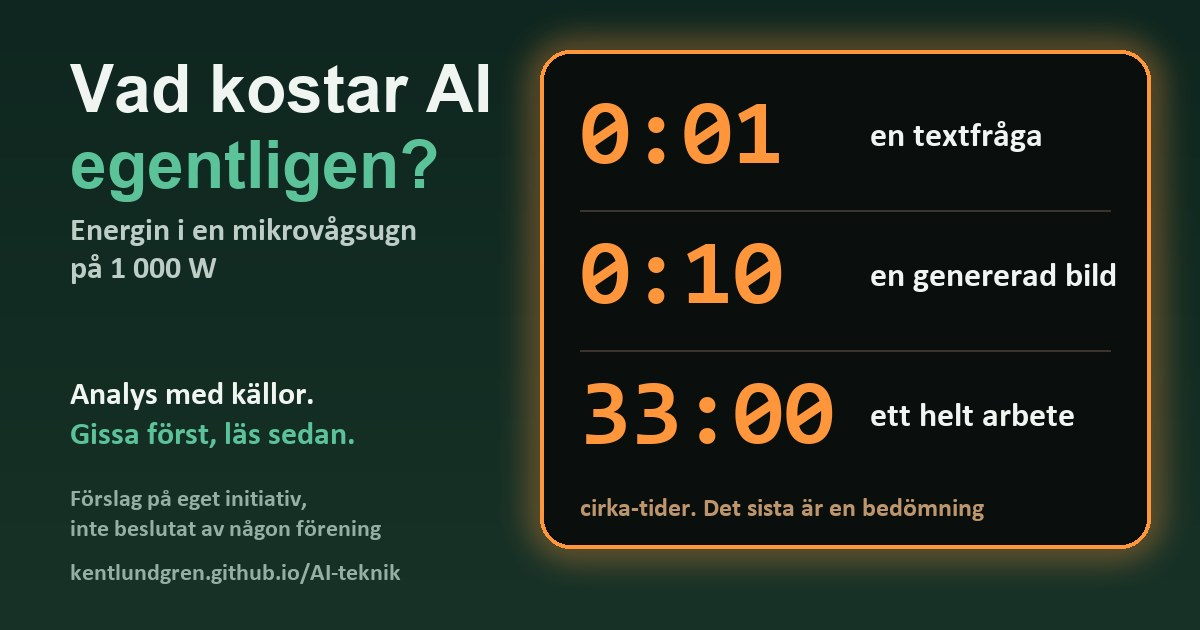
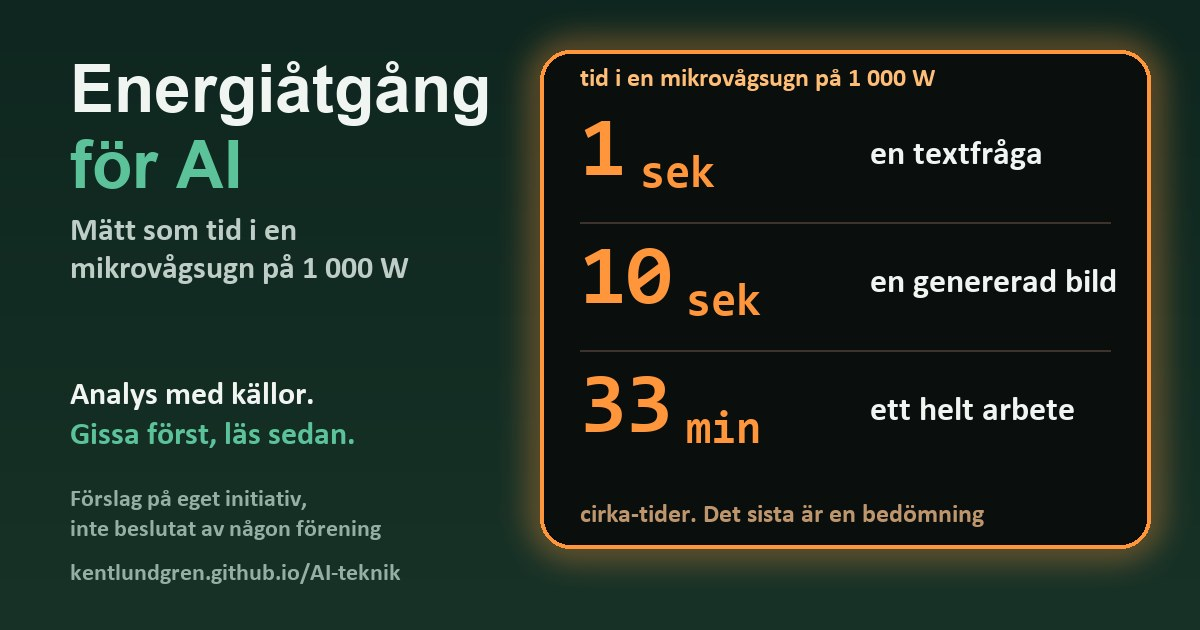
Increment version to 1.8 and update content for improved clarity
Updated all relevant HTML files, JavaScript, and README to version 1.8, reflecting changes in the introductory title to "Energiåtgång för AI" and adjusting time representations in the metadata. Enhanced the visual representation of time in the image generation script and ensured consistency across all pages. These updates aim to improve user understanding of AI's energy consumption and enhance the overall presentation of the analysis.

diff --git a/AI_anvandning/NF/index.html b/AI_anvandning/NF/index.html
@@ -1,7 +1,8 @@
 <!doctype html>
 <!--
   AI i en miljöorganisation: hubb (startsida).
-  Version 1.7 · 2026-11-12 · Kent Lundgren (versionen står i sida.js: VERSION och VERSIONSDATUM).
+  Version 1.8 · 2026-11-12 · Kent Lundgren (versionen står i sida.js: VERSION och VERSIONSDATUM).
+  UPPDATERING 2026-11-12: delningstitel Energiåtgång för AI. Version 1.8.
   UPPDATERING 2026-11-12: intro (gissa, mikron, kvitto) och delningstaggar. Version 1.7.
   UPPDATERING 2026-11-12: första versionen. Version 1.0.
 -->
@@ -14,15 +15,15 @@
   <meta property="og:type" content="website">
   <meta property="og:locale" content="sv_SE">
   <meta property="og:site_name" content="AI i en miljöorganisation">
-  <meta property="og:title" content="Vad kostar AI egentligen? En analys med källor">
+  <meta property="og:title" content="Energiåtgång för AI: en analys med källor">
   <meta property="og:description" content="En analys av generativ AI:s resursanvändning (energi, vatten och övriga miljöfaktorer) för både entusiaster och skeptiker. Förslag på eget initiativ, med källor.">
   <meta property="og:url" content="https://kentlundgren.github.io/AI-teknik/AI_anvandning/NF/">
   <meta property="og:image" content="https://kentlundgren.github.io/AI-teknik/AI_anvandning/NF/og-bild.jpg">
   <meta property="og:image:width" content="1200">
   <meta property="og:image:height" content="630">
-  <meta property="og:image:alt" content="Mikrovågsdisplay som visar 0:01 för en textfråga, 0:10 för en genererad bild och 33:00 för ett helt arbete">
+  <meta property="og:image:alt" content="Mikrovågsdisplay som visar tiden 1 sek för en textfråga, 10 sek för en genererad bild och 33 min för ett helt arbete">
   <meta name="twitter:card" content="summary_large_image">
-  <meta name="twitter:title" content="Vad kostar AI egentligen? En analys med källor">
+  <meta name="twitter:title" content="Energiåtgång för AI: en analys med källor">
   <meta name="twitter:description" content="En analys av generativ AI:s resursanvändning (energi, vatten och övriga miljöfaktorer) för både entusiaster och skeptiker. Förslag på eget initiativ, med källor.">
   <meta name="twitter:image" content="https://kentlundgren.github.io/AI-teknik/AI_anvandning/NF/og-bild.jpg">
   <link rel="stylesheet" href="sida.css">

diff --git a/AI_anvandning/NF/anvandningssatt.html b/AI_anvandning/NF/anvandningssatt.html
@@ -1,7 +1,7 @@
 <!doctype html>
 <!--
   AI i en miljöorganisation: vad är en fråga, och vad är ett arbete? (steg 2).
-  Version 1.7 · 2026-11-12 · Kent Lundgren (versionen står i sida.js: VERSION och VERSIONSDATUM).
+  Version 1.8 · 2026-11-12 · Kent Lundgren (versionen står i sida.js: VERSION och VERSIONSDATUM).
   UPPDATERING 2026-11-12: källor i Harvardformat och en källförteckning på sidan. Version 1.6.
   UPPDATERING 2026-11-12: bedömningsrad i Tabell 6 och länk till Min förbrukning. Version 1.5.
   UPPDATERING 2026-11-12: Tabell 6 förenklad till två alternativ med det tredje som underrad, nya avsnitt om kontextfönstret och om skillnader mellan tjänster, ny mätning. Version 1.4.
@@ -24,7 +24,7 @@
   <meta property="og:image" content="https://kentlundgren.github.io/AI-teknik/AI_anvandning/NF/og-bild.jpg">
   <meta property="og:image:width" content="1200">
   <meta property="og:image:height" content="630">
-  <meta property="og:image:alt" content="Mikrovågsdisplay som visar 0:01 för en textfråga, 0:10 för en genererad bild och 33:00 för ett helt arbete">
+  <meta property="og:image:alt" content="Mikrovågsdisplay som visar tiden 1 sek för en textfråga, 10 sek för en genererad bild och 33 min för ett helt arbete">
   <meta name="twitter:card" content="summary_large_image">
   <meta name="twitter:title" content="Fråga och arbete: AI i en miljöorganisation">
   <meta name="twitter:description" content="Vad en normal fråga och ett normalt svar är i tokens (X), hur många tokens ett arbete använder (Y) och förhållandet mellan dem (Z), med en uppmätt session och energi som ett spann.">

diff --git a/AI_anvandning/NF/analys.html b/AI_anvandning/NF/analys.html
@@ -1,7 +1,7 @@
 <!doctype html>
 <!--
   AI i en miljöorganisation: en analys (huvudsidan, stabilt namn).
-  Version 1.7 · 2026-11-12 · Kent Lundgren (versionen står i sida.js: VERSION och VERSIONSDATUM).
+  Version 1.8 · 2026-11-12 · Kent Lundgren (versionen står i sida.js: VERSION och VERSIONSDATUM).
   UPPDATERING 2026-11-12: källor i Harvardformat och en källförteckning på sidan. Version 1.6.
   UPPDATERING 2026-11-12: bedömningsrad (troligast) i Tabell 1, ny punkt och länk till sidan Min förbrukning. Version 1.5.
   UPPDATERING 2026-11-12: Tabell 1 förenklad till två alternativ för arbetets energi (det tredje är en underrad), ruta med bedömning, ny mätning. Version 1.4.
@@ -26,7 +26,7 @@
   <meta property="og:image" content="https://kentlundgren.github.io/AI-teknik/AI_anvandning/NF/og-bild.jpg">
   <meta property="og:image:width" content="1200">
   <meta property="og:image:height" content="630">
-  <meta property="og:image:alt" content="Mikrovågsdisplay som visar 0:01 för en textfråga, 0:10 för en genererad bild och 33:00 för ett helt arbete">
+  <meta property="og:image:alt" content="Mikrovågsdisplay som visar tiden 1 sek för en textfråga, 10 sek för en genererad bild och 33 min för ett helt arbete">
   <meta name="twitter:card" content="summary_large_image">
   <meta name="twitter:title" content="Analysen i korthet: AI i en miljöorganisation">
   <meta name="twitter:description" content="Analys av generativ AI:s resursanvändning i korthet: energi, vatten, övriga miljöfaktorer och vad ett arbete är. Med källor och osäkerhet redovisad.">

diff --git a/AI_anvandning/NF/forbrukning.html b/AI_anvandning/NF/forbrukning.html
@@ -1,7 +1,7 @@
 <!doctype html>
 <!--
   AI i en miljöorganisation: min förbrukning (kontext, tokens, energi och pengar).
-  Version 1.7 · 2026-11-12 · Kent Lundgren (versionen står i sida.js: VERSION och VERSIONSDATUM).
+  Version 1.8 · 2026-11-12 · Kent Lundgren (versionen står i sida.js: VERSION och VERSIONSDATUM).
   UPPDATERING 2026-11-12: källor i Harvardformat och en källförteckning på sidan. Version 1.6.
   UPPDATERING 2026-11-12: ny sida. Version 1.5.
   Alla siffror kommer ur data/siffror.json via platshållare (data-post, data-formel).
@@ -21,7 +21,7 @@
   <meta property="og:image" content="https://kentlundgren.github.io/AI-teknik/AI_anvandning/NF/og-bild.jpg">
   <meta property="og:image:width" content="1200">
   <meta property="og:image:height" content="630">
-  <meta property="og:image:alt" content="Mikrovågsdisplay som visar 0:01 för en textfråga, 0:10 för en genererad bild och 33:00 för ett helt arbete">
+  <meta property="og:image:alt" content="Mikrovågsdisplay som visar tiden 1 sek för en textfråga, 10 sek för en genererad bild och 33 min för ett helt arbete">
   <meta name="twitter:card" content="summary_large_image">
   <meta name="twitter:title" content="Min förbrukning: AI i en miljöorganisation">
   <meta name="twitter:description" content="Vad ett enskilt arbete med generativ AI förbrukar: kontextfönstret, tokens in och ut, energi och pengar, både i ett abonnemang och om man betalar API-kostnaden.">

diff --git a/AI_anvandning/NF/miljofaktorer.html b/AI_anvandning/NF/miljofaktorer.html
@@ -1,7 +1,7 @@
 <!doctype html>
 <!--
   AI i en miljöorganisation: övriga miljöfaktorer och gradering (steg 2).
-  Version 1.7 · 2026-11-12 · Kent Lundgren (versionen står i sida.js: VERSION och VERSIONSDATUM).
+  Version 1.8 · 2026-11-12 · Kent Lundgren (versionen står i sida.js: VERSION och VERSIONSDATUM).
   UPPDATERING 2026-11-12: källor i Harvardformat och en källförteckning på sidan. Version 1.6.
   UPPDATERING 2026-11-12: första versionen. Version 1.0.
 -->
@@ -20,7 +20,7 @@
   <meta property="og:image" content="https://kentlundgren.github.io/AI-teknik/AI_anvandning/NF/og-bild.jpg">
   <meta property="og:image:width" content="1200">
   <meta property="og:image:height" content="630">
-  <meta property="og:image:alt" content="Mikrovågsdisplay som visar 0:01 för en textfråga, 0:10 för en genererad bild och 33:00 för ett helt arbete">
+  <meta property="og:image:alt" content="Mikrovågsdisplay som visar tiden 1 sek för en textfråga, 10 sek för en genererad bild och 33 min för ett helt arbete">
   <meta name="twitter:card" content="summary_large_image">
   <meta name="twitter:title" content="Övriga miljöfaktorer: AI i en miljöorganisation">
   <meta name="twitter:description" content="Miljöpåverkan från generativ AI utöver energi och vatten: hårdvara, mineral, elektroniskt avfall, elnät och indirekta effekter, med en graderingsram och en redovisning av vad som är dåligt mätt.">

diff --git a/AI_anvandning/NF/kallor.html b/AI_anvandning/NF/kallor.html
@@ -1,7 +1,7 @@
 <!doctype html>
 <!--
   AI i en miljöorganisation: källor och logg.
-  Version 1.7 · 2026-11-12 · Kent Lundgren (versionen står i sida.js: VERSION och VERSIONSDATUM).
+  Version 1.8 · 2026-11-12 · Kent Lundgren (versionen står i sida.js: VERSION och VERSIONSDATUM).
   UPPDATERING 2026-11-12: första versionen. Version 1.0.
   Allt på sidan kommer ur data/siffror.json: källor, verifieringslogg, alla siffror, förbättringsregister, antagandelogg och versionslogg.
 -->
@@ -20,7 +20,7 @@
   <meta property="og:image" content="https://kentlundgren.github.io/AI-teknik/AI_anvandning/NF/og-bild.jpg">
   <meta property="og:image:width" content="1200">
   <meta property="og:image:height" content="630">
-  <meta property="og:image:alt" content="Mikrovågsdisplay som visar 0:01 för en textfråga, 0:10 för en genererad bild och 33:00 för ett helt arbete">
+  <meta property="og:image:alt" content="Mikrovågsdisplay som visar tiden 1 sek för en textfråga, 10 sek för en genererad bild och 33 min för ett helt arbete">
   <meta name="twitter:card" content="summary_large_image">
   <meta name="twitter:title" content="Källor och logg: AI i en miljöorganisation">
   <meta name="twitter:description" content="Källförteckning, verifieringslogg, alla siffror med källa och hämtdatum, förbättringsregister, antagandelogg och versionslogg för analysen om AI i en miljöorganisation.">

diff --git a/AI_anvandning/NF/vatten.html b/AI_anvandning/NF/vatten.html
@@ -1,7 +1,7 @@
 <!doctype html>
 <!--
   AI i en miljöorganisation: vatten i detalj (steg 2).
-  Version 1.7 · 2026-11-12 · Kent Lundgren (versionen står i sida.js: VERSION och VERSIONSDATUM).
+  Version 1.8 · 2026-11-12 · Kent Lundgren (versionen står i sida.js: VERSION och VERSIONSDATUM).
   UPPDATERING 2026-11-12: källor i Harvardformat och en källförteckning på sidan. Version 1.6.
   UPPDATERING 2026-11-12: första versionen. Version 1.0.
 -->
@@ -20,7 +20,7 @@
   <meta property="og:image" content="https://kentlundgren.github.io/AI-teknik/AI_anvandning/NF/og-bild.jpg">
   <meta property="og:image:width" content="1200">
   <meta property="og:image:height" content="630">
-  <meta property="og:image:alt" content="Mikrovågsdisplay som visar 0:01 för en textfråga, 0:10 för en genererad bild och 33:00 för ett helt arbete">
+  <meta property="og:image:alt" content="Mikrovågsdisplay som visar tiden 1 sek för en textfråga, 10 sek för en genererad bild och 33 min för ett helt arbete">
   <meta name="twitter:card" content="summary_large_image">
   <meta name="twitter:title" content="Vatten i detalj: AI i en miljöorganisation">
   <meta name="twitter:description" content="Går det åt vatten när man använder AI? Skillnaden mellan uttag, förbrukning och temperaturpåverkan, kylmetoder, en jämförelse med kärnkraft och vatten per fråga och per arbetspass.">

diff --git a/AI_anvandning/NF/sida.js b/AI_anvandning/NF/sida.js
@@ -4,6 +4,7 @@
  * (data-post, data-formel, data-kalla, data-lista), visar markering av hur väl en siffra är belagd,
  * förklaringar vid hovring/fokus/tryck, tekniknivån i hörnet och versionsraden.
  *
+ * UPPDATERING 2026-11-12: ändrad rubrik i introt (Energiåtgång för AI) och på delningsbilden. Version 1.8.
  * UPPDATERING 2026-11-12: händelsen "siffror-laddade" för introt på startsidan. Version 1.7.
  * UPPDATERING 2026-11-12: källor i Harvardformat (Tillgänglig på, hämtdatum, DOI), källförteckning på varje sida (sidkallor), länkar i verifieringsloggen. Version 1.6.
  * UPPDATERING 2026-11-12: visning i USD (data-visa="usd"), källor utan webbadress, termerna anrop och utdata, nya testvärden (A3). Version 1.5.
@@ -16,7 +17,7 @@
  * Testläge: lägg ?test=1 efter adressen för att köra validering och testfall (SPEC avsnitt 3, 4 och 8).
  * Obs: fetch fungerar inte på file://. Testa via en lokal server (python -m http.server).
  */
-const VERSION = "1.7";
+const VERSION = "1.8";
 const VERSIONSDATUM = "2026-11-12";
 const AVSANDARE = "Kent Lundgren";
 const GITHUB_MAPP = "https://github.com/kentlundgren/AI-teknik/tree/main/AI_anvandning/NF";

diff --git a/AI_anvandning/NF/intro.js b/AI_anvandning/NF/intro.js
@@ -4,6 +4,7 @@
  * visaEnergi, visaVatten, sig, fp). Introt väntar på händelsen "siffror-laddade".
  * Visas första gången. ?intro=1 visar det alltid, ?intro=0 aldrig. Knappen "Visa introt igen" öppnar det.
  *
+ * UPPDATERING 2026-11-12: rubriken Energiåtgång för AI. Version 1.8.
  * UPPDATERING 2026-11-12: första versionen. Version 1.7.
  */
 (function () {
@@ -58,7 +59,7 @@
 
     /* ---------- steg 0: start ---------- */
     var s0 = el("section", "intro-steg");
-    var h0 = el("h2", null, "Vad kostar AI egentligen?");
+    var h0 = el("h2", null, "Energiåtgång för AI");
     h0.id = "intro-titel";
     s0.appendChild(h0);
     s0.appendChild(el("p", null, "Två frågor kommer ofta upp: går det åt mycket el och vatten, och vad gör vi med bilder? Börja med att gissa. Det tar en halv minut."));

diff --git a/AI_anvandning/NF/gen_og_bild.py b/AI_anvandning/NF/gen_og_bild.py
@@ -41,9 +41,15 @@ def mmss(s, avrunda_min=False):
     return '%d:%02d' % (s // 60, s % 60)
 
 
-tider = [('0:01' if fraga < 1.5 else mmss(fraga), 'en textfråga'),
-         (mmss(bild), 'en genererad bild'),
-         (mmss(arbete, True), 'ett helt arbete')]
+def tid_enhet(s):
+    if s < 90:
+        return str(max(1, round(s))), 'sek'
+    return str(round(s / 60)), 'min'
+
+
+tider = [tid_enhet(fraga) + ('en textfråga',),
+         tid_enhet(bild) + ('en genererad bild',),
+         tid_enhet(arbete) + ('ett helt arbete',)]
 print('tider', tider, 'sek', round(fraga, 2), round(bild, 2), round(arbete))
 
 W, H = 1200, 630
@@ -68,16 +74,16 @@ def font(fil, storlek):
 
 f_titel = font('arialbd.ttf', 66)
 f_sub = font('calibrib.ttf', 32)
-f_tid = font('consolab.ttf', 92)
+f_tid = font('consolab.ttf', 84)
 f_etikett = font('calibrib.ttf', 34)
 f_liten = font('calibrib.ttf', 26)
 f_url = font('calibrib.ttf', 24)
 
 # titel
-d.text((70, 52), 'Vad kostar AI', font=f_titel, fill=VIT)
-d.text((70, 128), 'egentligen?', font=f_titel, fill=GRON)
-d.text((70, 216), 'Energin i en mikrovågsugn', font=f_sub, fill=(190, 205, 198))
-d.text((70, 254), 'på 1 000 W', font=f_sub, fill=(190, 205, 198))
+d.text((70, 52), 'Energiåtgång', font=f_titel, fill=VIT)
+d.text((70, 128), 'för AI', font=f_titel, fill=GRON)
+d.text((70, 216), 'Mätt som tid i en', font=f_sub, fill=(190, 205, 198))
+d.text((70, 254), 'mikrovågsugn på 1 000 W', font=f_sub, fill=(190, 205, 198))
 
 # mikrovågsdisplay (höger)
 bx0, by0, bx1, by1 = 540, 50, 1150, 548
@@ -88,15 +94,18 @@ img.paste(Image.new('RGB', (W, H), ORANGE), (0, 0), mask)
 d = ImageDraw.Draw(img)
 d.rounded_rectangle((bx0, by0, bx1, by1), radius=30, fill=SVART, outline=ORANGE, width=4)
 
-rad_h = 140
-for i, (tid, etikett) in enumerate(tider):
-    y = by0 + 26 + i * rad_h
-    d.text((bx0 + 40, y + 18), tid, font=f_tid, fill=ORANGE)
-    d.text((bx0 + 330, y + 44), etikett, font=f_etikett, fill=VIT)
+rad_h = 128
+f_enhet = font('consolab.ttf', 46)
+for i, (tal, enhet, etikett) in enumerate(tider):
+    y = by0 + 50 + i * rad_h
+    d.text((bx0 + 40, y + 12), tal, font=f_tid, fill=ORANGE)
+    d.text((bx0 + 40 + int(d.textlength(tal, font=f_tid)) + 14, y + 52), enhet, font=f_enhet, fill=ORANGE)
+    d.text((bx0 + 330, y + 38), etikett, font=f_etikett, fill=VIT)
     if i < 2:
         d.line([(bx0 + 40, y + rad_h - 6), (bx1 - 40, y + rad_h - 6)], fill=(60, 52, 44), width=2)
 
-d.text((bx0 + 40, by1 - 52), 'cirka-tider. Det sista är en bedömning', font=f_liten, fill=(190, 150, 110))
+d.text((bx0 + 40, by0 + 16), 'tid i en mikrovågsugn på 1 000 W', font=f_liten, fill=(255, 190, 120))
+d.text((bx0 + 40, by1 - 46), 'cirka-tider. Det sista är en bedömning', font=f_liten, fill=(190, 150, 110))
 
 # nederkant
 d.text((70, 380), 'Analys med källor.', font=f_sub, fill=VIT)

diff --git a/AI_anvandning/NF/PRD_ai_riktlinjer_261112.md b/AI_anvandning/NF/PRD_ai_riktlinjer_261112.md
@@ -1,7 +1,8 @@
 # PRD: förhållningssätt och riktlinjer för generativ AI i en ideell miljöorganisation
 
-**Version:** 0.17 (utkast) · **Datum:** 2026-11-12 · **Avsändare:** Kent Lundgren
+**Version:** 0.18 (utkast) · **Datum:** 2026-11-12 · **Avsändare:** Kent Lundgren
 **Status:** Kents egen undersökning, på eget initiativ och utan samordning. Inte beslutat av Lunds Naturskyddsförening eller av Naturskyddsföreningen.
+**Ändringar i 0.18:** sidan är version 1.8: rubriken i introt och på delningsbilden är Energiåtgång för AI, och tiderna på bilden står som 1 sek, 10 sek och 33 min.
 **Ändringar i 0.17:** sidan är version 1.7: intro på startsidan (gissa, mikron, kvitto) och delningsbild med delningstaggar.
 **Ändringar i 0.16:** sidan är version 1.6: källor i Harvardformat med källförteckning på varje sida, länkar i verifieringsloggen och en summarad i tabellen över tokens och kostnad.
 **Ändringar i 0.15:** sidan är version 1.5: bedömningen av arbetets energi som egen rad, och en ny sida Min förbrukning om kontext, tokens, energi och pengar (abonnemang och API). Förbättringsrader F-37 och F-38.

diff --git a/AI_anvandning/NF/README.md b/AI_anvandning/NF/README.md
@@ -1,10 +1,10 @@
 # AI i en miljöorganisation (NF)
 
-- **Live:** [https://kentlundgren.github.io/AI-teknik/AI_anvandning/NF/](https://kentlundgren.github.io/AI-teknik/AI_anvandning/NF/) (adressen gäller när sidan är pushad och GitHub Pages har byggt den; sidan är byggd och testad lokalt, version 1.7)
+- **Live:** [https://kentlundgren.github.io/AI-teknik/AI_anvandning/NF/](https://kentlundgren.github.io/AI-teknik/AI_anvandning/NF/) (adressen gäller när sidan är pushad och GitHub Pages har byggt den; sidan är byggd och testad lokalt, version 1.8)
 
 En analys av generativ AI:s resursanvändning (energi, vatten och övriga miljöfaktorer) för både dem som gillar AI och dem som är skeptiska, med Naturskyddsföreningen och Lunds Naturskyddsförening som exempel. Förslag på eget initiativ, inte beslutat av någon förening. Ett förslag till förhållningssätt (principer, trafikljus, bilder, checklista, vanliga frågor) kommer i en senare version (F-32).
 
-## Sidan (version 1.7, 2026-11-12)
+## Sidan (version 1.8, 2026-11-12)
 
 | Fil | Innehåll |
 |---|---|
